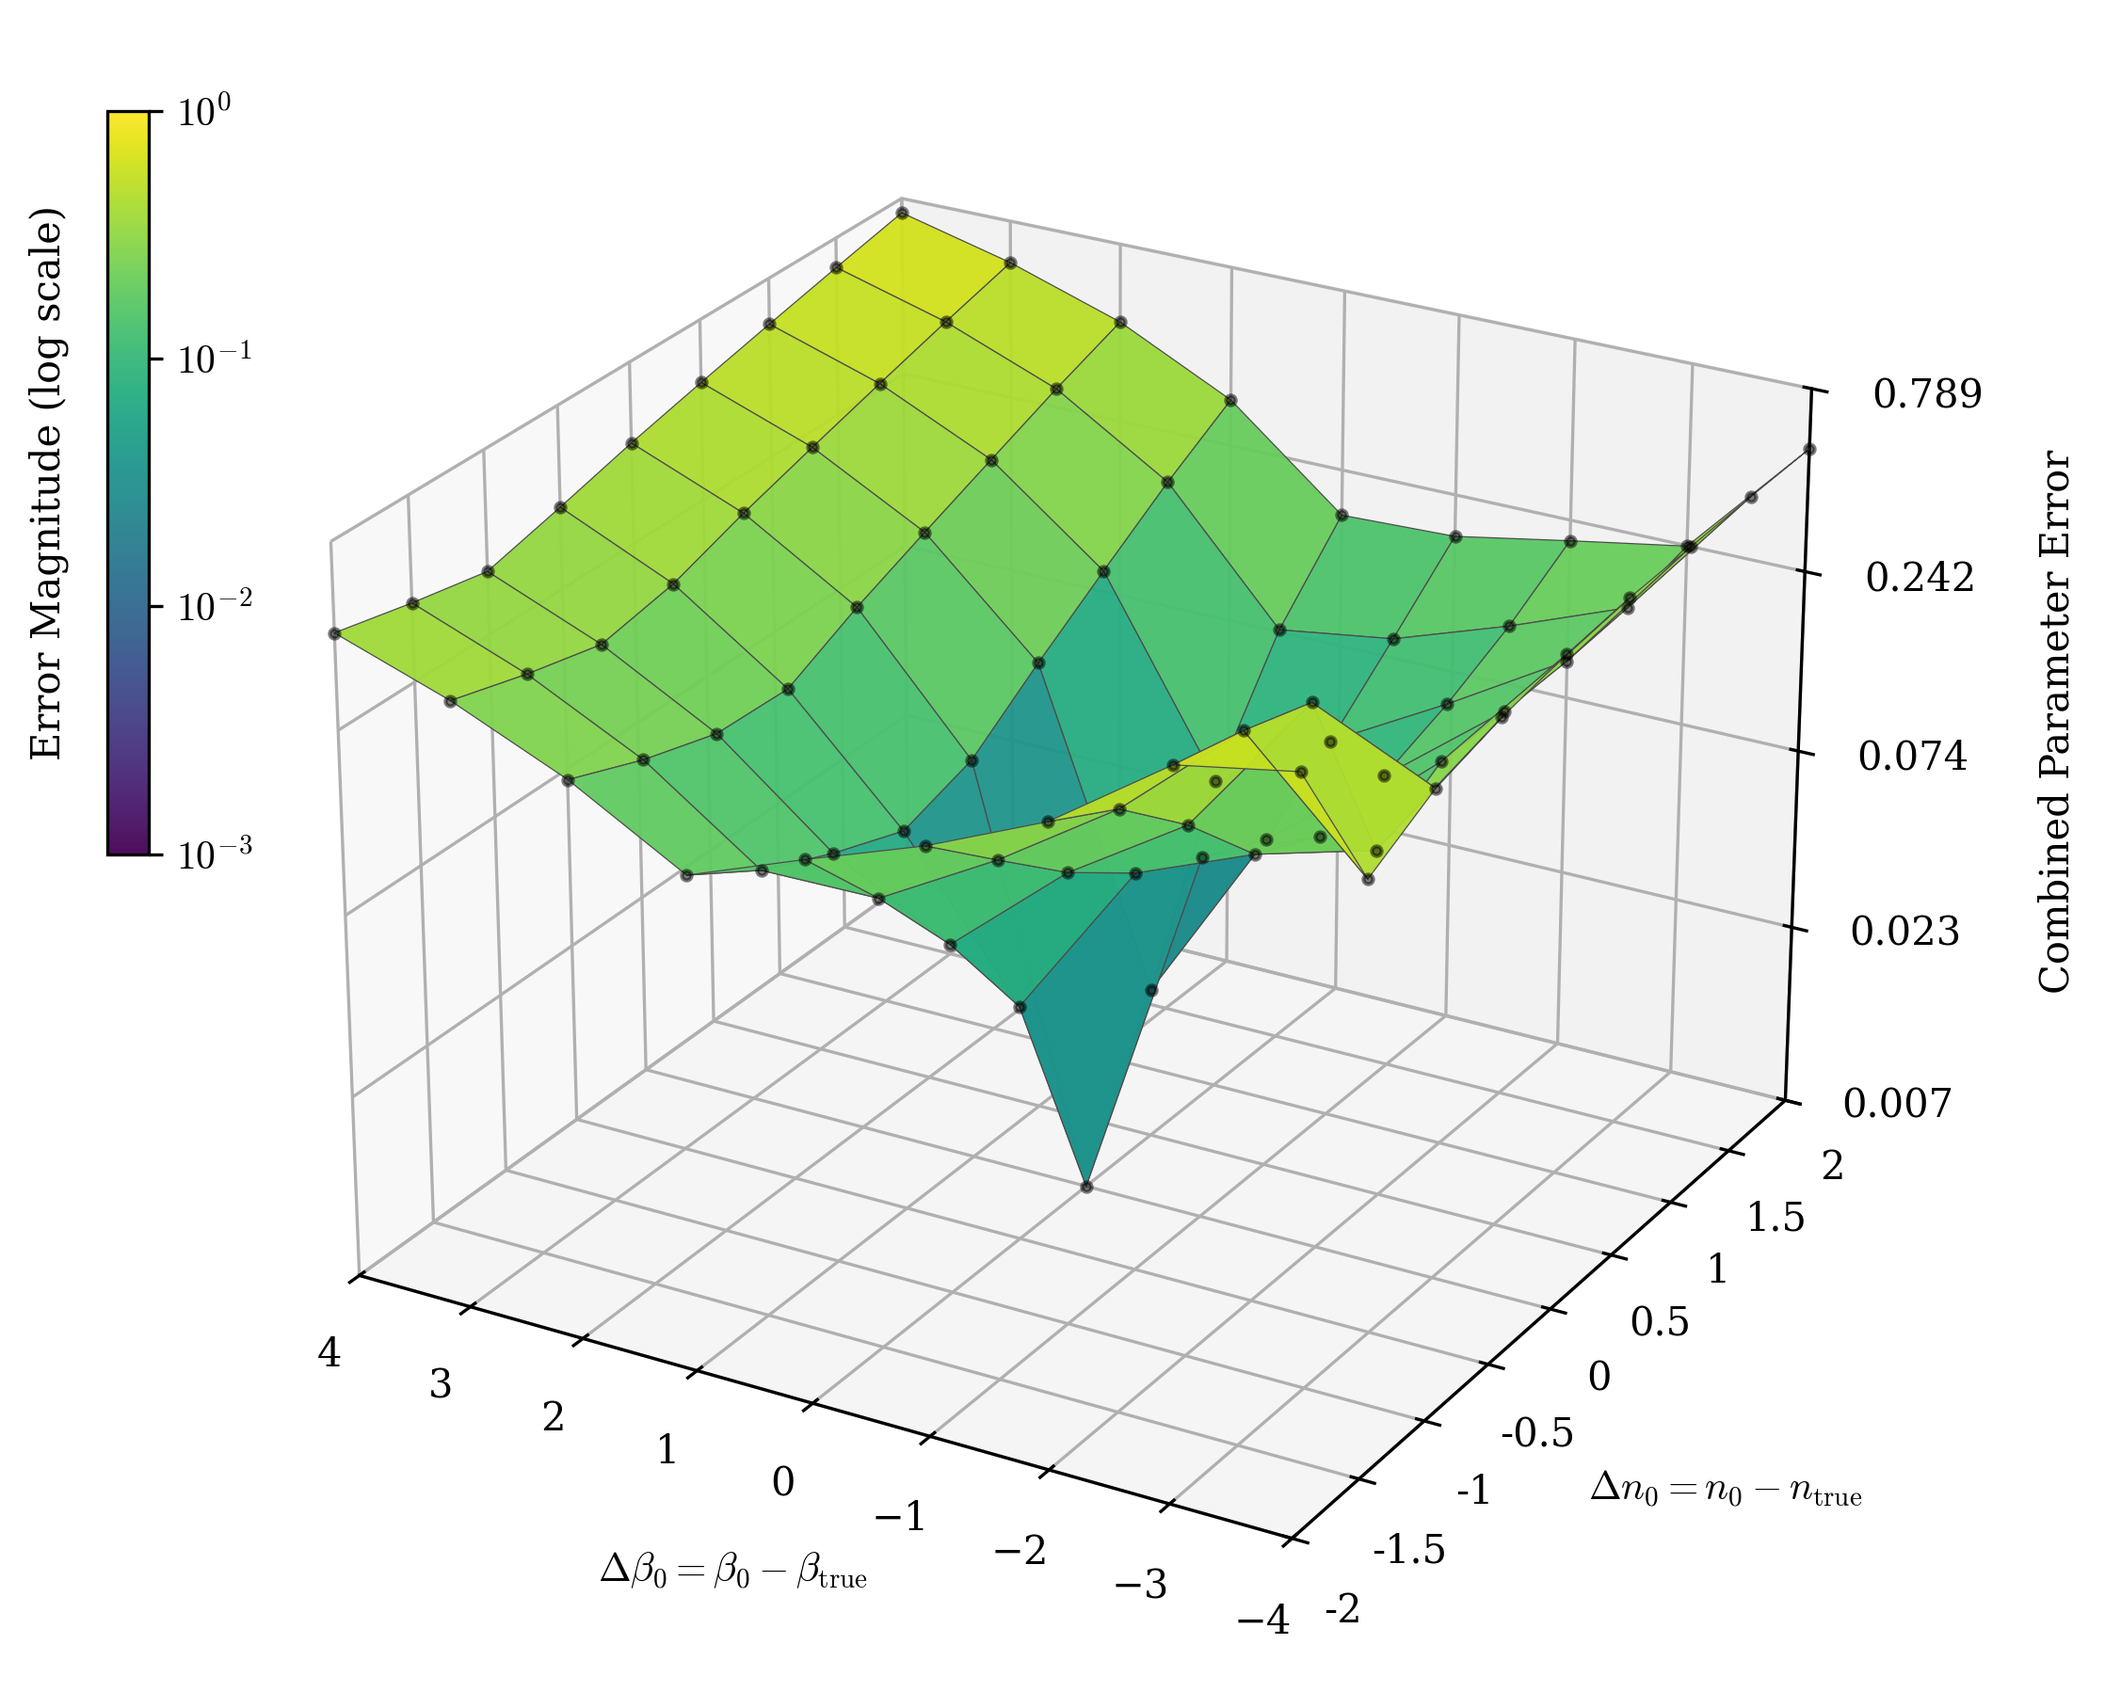
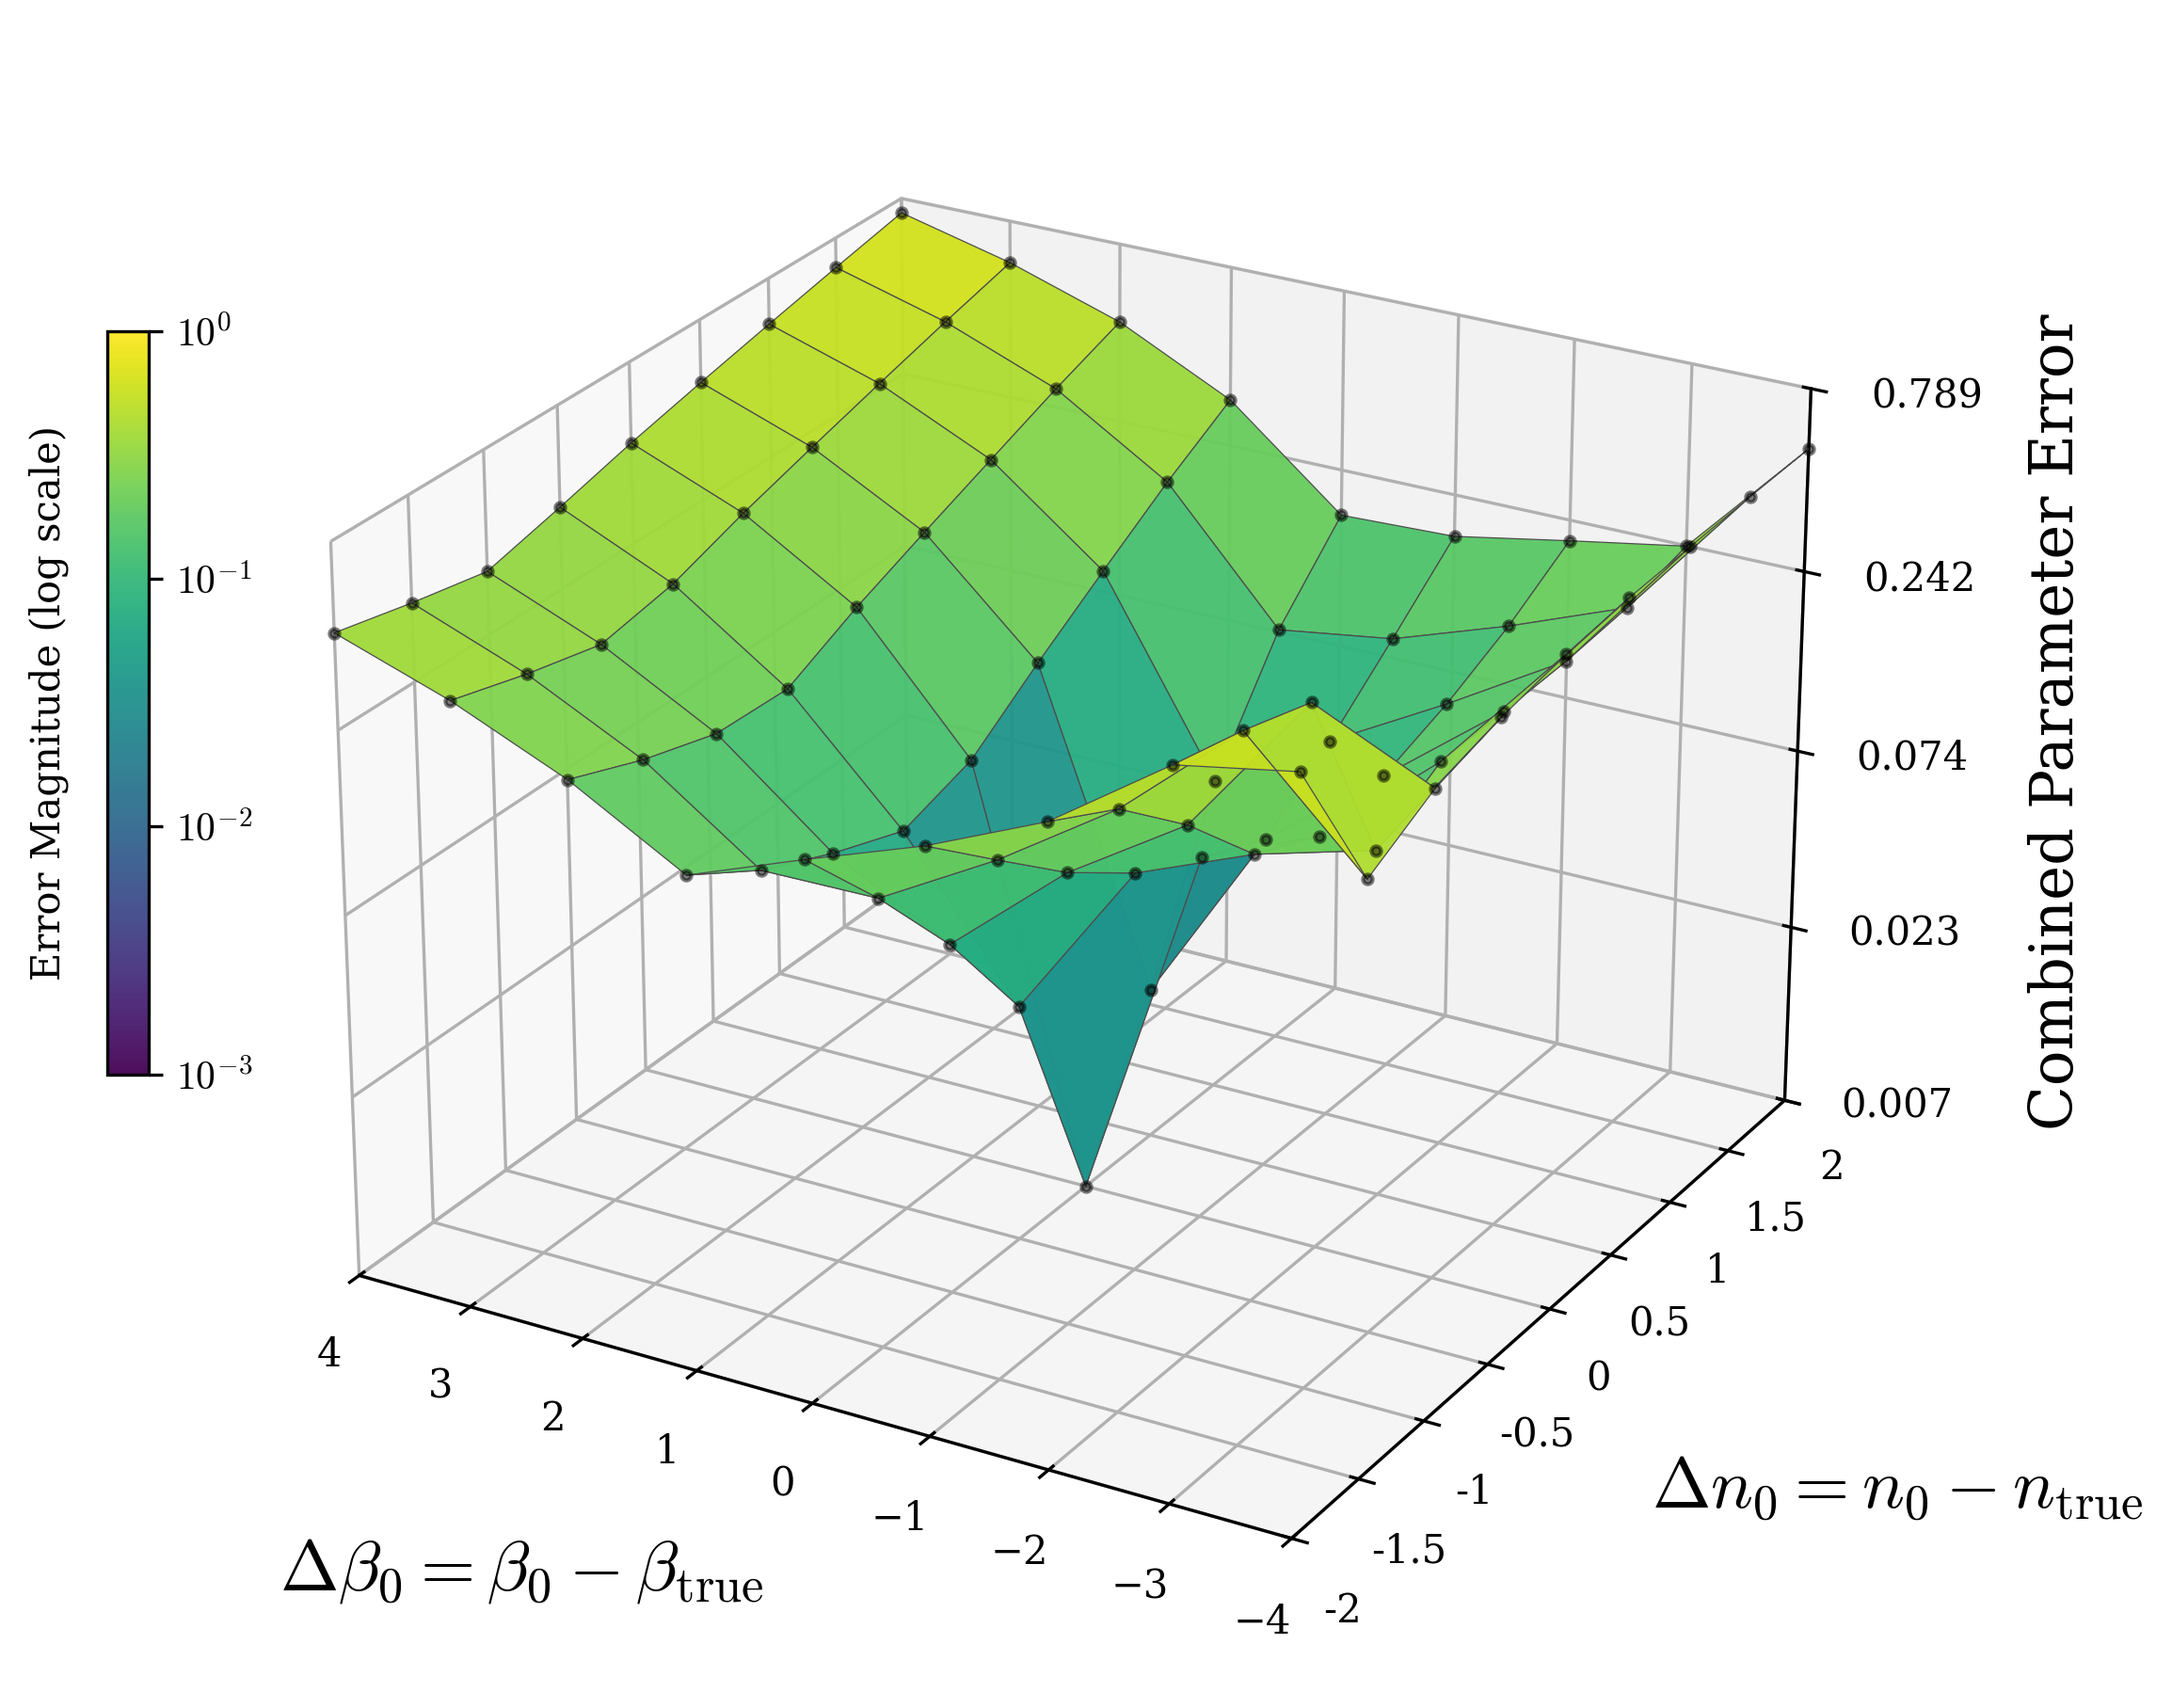
new exp 4 figure layout

diff --git a/scripts/experiments/exp4_initial_guess.py b/scripts/experiments/exp4_initial_guess.py
@@ -39,6 +39,7 @@ import sys
 import matplotlib.pyplot as plt
 import matplotlib.ticker as mticker
 import numpy as np
+from matplotlib.text import Text
 
 scripts_dir = os.path.dirname(os.path.dirname(os.path.abspath(__file__)))
 if scripts_dir not in sys.path:
@@ -308,9 +309,44 @@ def main():
     # "distance/difference from truth" at a glance -- the true parameters sit at
     # offset (0, 0) by construction, so no separate marker is needed to point
     # that out (see below).
-    ax.set_xlabel(r"$\Delta\beta_0 = \beta_0 - \beta_{\mathrm{true}}$", labelpad=10, rotation=0)
-    ax.set_ylabel(r"$\Delta n_0 = n_0 - n_{\mathrm{true}}$", labelpad=20, rotation=0)
-    ax.set_zlabel("Combined Parameter Error", labelpad=20, rotation=90)
+    ax.set_xlabel(r"$\Delta\beta_0 = \beta_0 - \beta_{\mathrm{true}}$", labelpad=10, rotation=0, fontsize=18)
+    ax.set_ylabel(r"$\Delta n_0 = n_0 - n_{\mathrm{true}}$", labelpad=20, rotation=0, fontsize=18)
+    ax.set_zlabel("Combined Parameter Error", labelpad=20, rotation=90, fontsize=15)
+    # mplot3d hardcodes label ha/va to 'center' in a class-level _AXINFO table
+    # shared across all three axes, and reapplies it on every draw (see
+    # axis3d.py _draw_labels), which silently overrides any ha= passed to
+    # set_xlabel/set_ylabel above. Swapping in a fresh 'label' dict on just
+    # this axis (instead of mutating the shared one, which would also shift
+    # the y/z labels) is what actually nudges the label sideways off its
+    # computed anchor and survives the redraw.
+    ax.xaxis._axinfo["label"] = {**ax.xaxis._axinfo["label"], "ha": "right"}
+    ax.yaxis._axinfo["label"] = {**ax.yaxis._axinfo["label"], "ha": "left"}
+
+    def _nudge_label_x(label, dx_points):
+        """Pull a 3D axis label back toward center by a fixed screen-space
+        amount, on top of whatever the ha='right'/'left' override above and
+        mplot3d's own per-draw position computation already place it at.
+
+        mplot3d recomputes and overwrites label.set_position(...) on every
+        draw (axis3d.py _draw_labels) using data-space coordinates, so a
+        one-off position/transform tweak made now would just be discarded at
+        render time. Shadowing set_position with a wrapper that intercepts
+        each of those calls and offsets them in display space (points) is
+        what makes the nudge survive every redraw, including the extra ones
+        bbox_inches='tight' triggers while computing the crop.
+        """
+        original_set_position = Text.set_position.__get__(label)
+        dx_pixels = dx_points * fig.dpi / 72.0
+
+        def wrapped(xy):
+            trans = label.get_transform()
+            dx_disp, dy_disp = trans.transform(xy)
+            original_set_position(trans.inverted().transform((dx_disp + dx_pixels, dy_disp)))
+
+        label.set_position = wrapped
+
+    _nudge_label_x(ax.xaxis.label, dx_points=12)   # beta label: pull back right
+    _nudge_label_x(ax.yaxis.label, dx_points=-28)  # n label: pull back left
 
     # No separate truth marker/legend: the axis labels already say (0, 0) is the
     # truth, and the (0, 0) point is already part of the black grid-point dots
@@ -340,7 +376,7 @@ def main():
     # upper-left region of the figure. fig.colorbar() doesn't support that
     # placement directly, so the axes position is overridden by hand afterward.
     cbar_pos = cbar.ax.get_position()
-    cbar.ax.set_position([0.27, 0.50, cbar_pos.width, cbar_pos.height])
+    cbar.ax.set_position([0.27, 0.38, cbar_pos.width, cbar_pos.height])
 
     # bbox_inches="tight" crops the saved PNG to the actual rendered content
     # (plot + colorbar) instead of the full fixed-size canvas -- tight_layout()
@@ -348,7 +384,10 @@ def main():
     # blank margin otherwise. mplot3d's get_tightbbox() doesn't reliably include
     # the z-axis label in that automatic bbox, so it gets silently cropped off
     # unless it's passed explicitly via bbox_extra_artists.
-    finalize_figure(figure_path, bbox_inches="tight", bbox_extra_artists=[ax.zaxis.label])
+    finalize_figure(
+        figure_path, bbox_inches="tight",
+        bbox_extra_artists=[ax.xaxis.label, ax.yaxis.label, ax.zaxis.label],
+    )
 
 
 if __name__ == "__main__":
